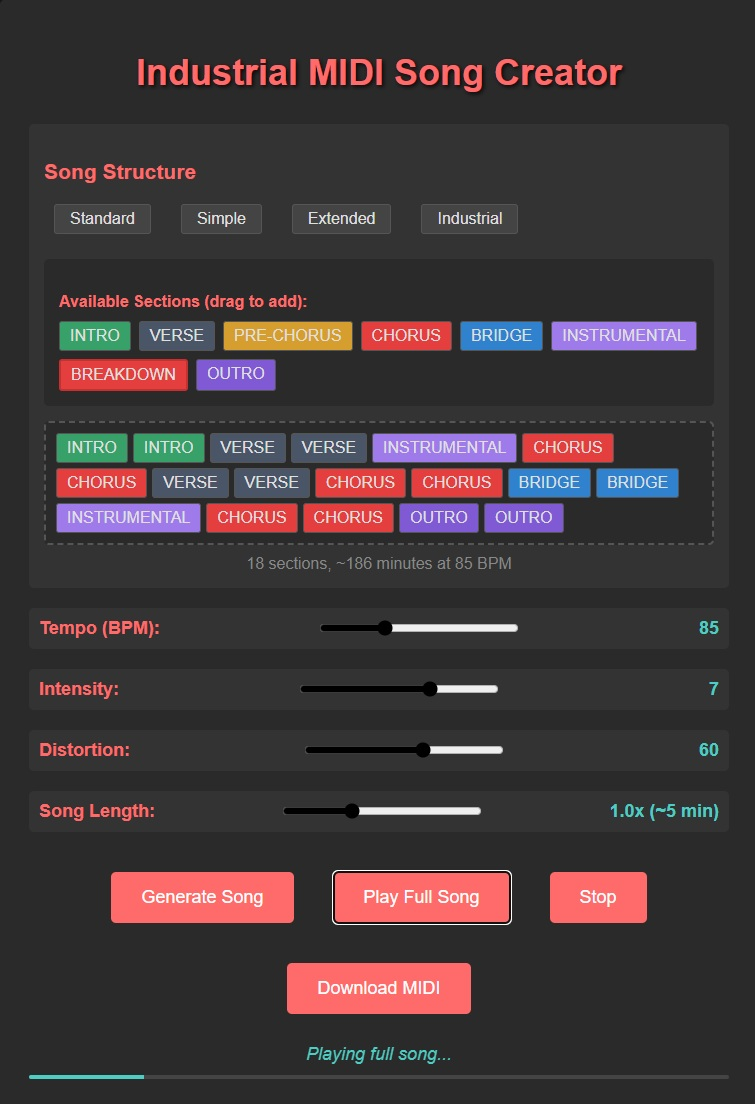
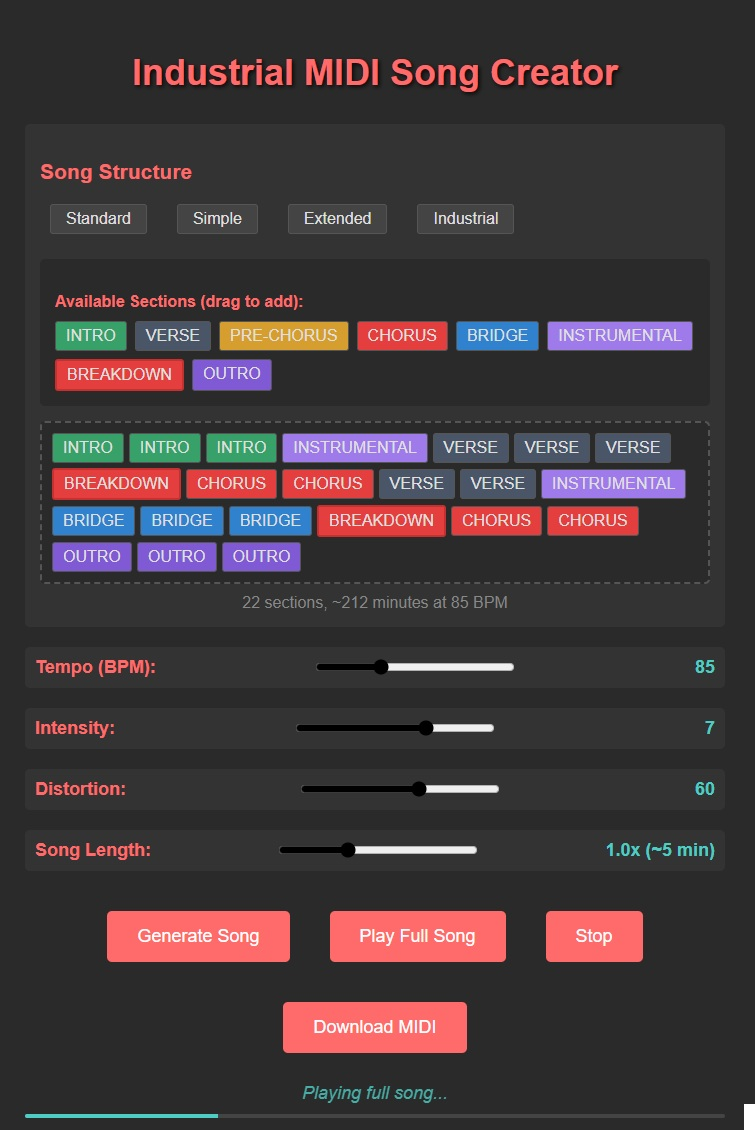
Fix deterministic song starts - add proper randomization
- Pass seed values through pattern generation functions
- Randomize intro patterns to vary starting notes
- Use seed-based variation for each section
- Remove automatic MIDI generation on page load
- Ensure each playback generates new seed if no MIDI exists

diff --git a/IndustrialMIDICreator.html b/IndustrialMIDICreator.html
@@ -732,8 +732,8 @@
             
             const songLengthMultiplier = parseFloat(document.getElementById('songLength').value);
             
-            sections.forEach(section => {
-                const pattern = getBassPattern(section, intensity);
+            sections.forEach((section, sectionIndex) => {
+                const pattern = getBassPattern(section, intensity, currentSeed + sectionIndex * 10000);
                 const baseBars = barsPerSection[section] || 8;
                 const barsInSection = Math.round(baseBars * songLengthMultiplier);
                 // Randomize time signature for verses and bridges sometimes
@@ -790,8 +790,8 @@
             
             const songLengthMultiplier = parseFloat(document.getElementById('songLength').value);
             
-            sections.forEach(section => {
-                const pattern = getLeadPattern(section, intensity);
+            sections.forEach((section, sectionIndex) => {
+                const pattern = getLeadPattern(section, intensity, currentSeed + sectionIndex * 20000);
                 const baseBars = barsPerSection[section] || 8;
                 const barsInSection = Math.round(baseBars * songLengthMultiplier);
                 // Randomize time signature for verses and bridges sometimes
@@ -875,14 +875,14 @@
             });
         }
         
-        function getBassPattern(section, intensity) {
+        function getBassPattern(section, intensity, seed = 0) {
             const patterns = {
                 intro: [
-                    { pitch: 36, velocity: 60, duration: 1 },
-                    { pitch: 36, velocity: 50, duration: 0.5 },
-                    { pitch: 41, velocity: 55, duration: 0.5 },
-                    { pitch: 36, velocity: 60, duration: 1 },
-                    { pitch: 43, velocity: 55, duration: 1 }
+                    { pitch: randomChoice([36, 38, 41], seed), velocity: 60, duration: 1 },
+                    { pitch: randomChoice([36, 38, 41], seed + 1), velocity: 50, duration: 0.5 },
+                    { pitch: randomChoice([41, 43, 46], seed + 2), velocity: 55, duration: 0.5 },
+                    { pitch: randomChoice([36, 38, 41], seed + 3), velocity: 60, duration: 1 },
+                    { pitch: randomChoice([43, 46, 48], seed + 4), velocity: 55, duration: 1 }
                 ],
                 verse: [ // 7/8 time
                     { pitch: 36, velocity: 70, duration: 0.5 },
@@ -948,10 +948,10 @@
             }));
             
             // Add random variation to the pattern
-            return generatePatternVariation(basePattern, currentSeed + section.charCodeAt(0));
+            return generatePatternVariation(basePattern, seed);
         }
         
-        function getLeadPattern(section, intensity) {
+        function getLeadPattern(section, intensity, seed = 0) {
             const patterns = {
                 intro: [
                     { pitch: 0, velocity: 0, duration: 4 } // Rest for intro
@@ -1014,7 +1014,7 @@
             }));
             
             // Add random variation to the pattern
-            return generatePatternVariation(basePattern, currentSeed + section.charCodeAt(0) * 2);
+            return generatePatternVariation(basePattern, seed);
         }
         
         // Play preview using Web Audio API
@@ -1024,6 +1024,11 @@
             }
             
             if (isPlaying) return;
+            
+            // Generate new seed for playback if we haven't generated MIDI yet
+            if (!midiData) {
+                currentSeed = Date.now() + Math.random() * 10000;
+            }
             
             isPlaying = true;
             currentSection = 0;
@@ -1074,7 +1079,7 @@
                 }
                 
                 const section = songSections[currentSection];
-                playSection(section, currentBeat, intensity, distortion);
+                playSection(section, currentBeat, intensity, distortion, currentSection);
                 
                 currentBeat++;
                 totalBeats++;
@@ -1100,7 +1105,7 @@
             }, beatDuration * 250); // Quarter note duration
         }
         
-        function playSection(section, beat, intensity, distortion) {
+        function playSection(section, beat, intensity, distortion, sectionIndex = 0) {
             // Bass line
             const bassOsc = audioContext.createOscillator();
             const bassGain = audioContext.createGain();
@@ -1257,9 +1262,6 @@
         document.getElementById('playBtn').addEventListener('click', playPreview); // Plays full song
         document.getElementById('stopBtn').addEventListener('click', stopPlayback);
         document.getElementById('downloadBtn').addEventListener('click', downloadMIDI);
-        
-        // Generate initial MIDI
-        generateMIDI();
     </script>
 </body>
 </html>
